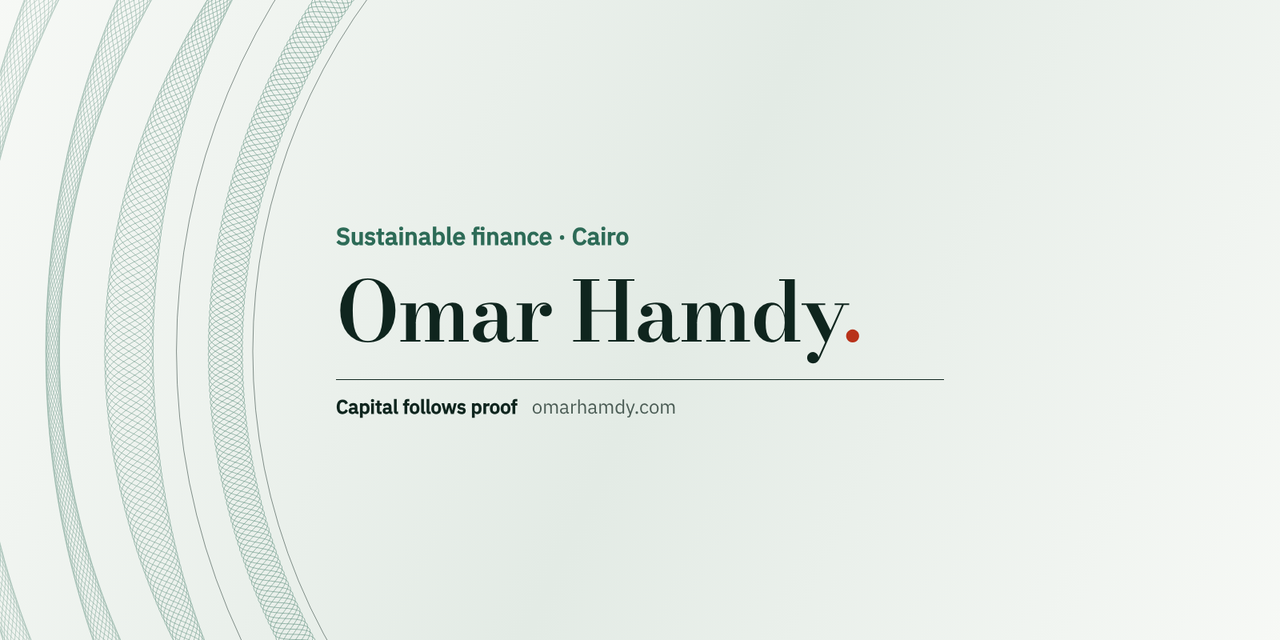
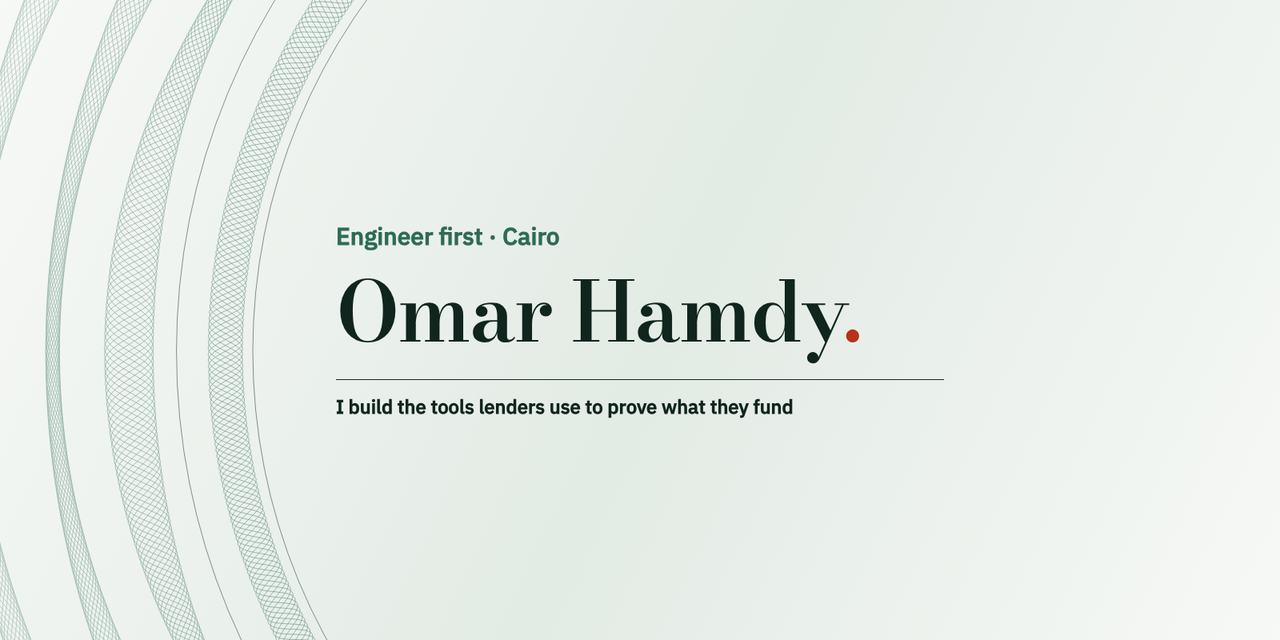
Profile: lead with the builder

Changed region(s): [[0.25, 0.3438, 0.5, 0.4062], [0.25, 0.625, 0.625, 0.6562]]

diff --git a/README.md b/README.md
@@ -1,24 +1,30 @@
-<p align="center"><img src="assets/banner.png" alt="Omar Hamdy. Sustainable finance, Cairo. Capital follows proof." width="100%"></p>
+<p align="center"><img src="assets/banner.png" alt="Omar Hamdy. Engineer first, Cairo. I build the tools lenders use to prove what they fund." width="100%"></p>
 
-Sustainable finance specialist in Cairo, on the lender's side of EBRD and IFC credit lines. IFC EDGE Expert. MSc Business Analytics.
+**Engineer first.** I trained in electronics and communications, ran network operations at Telecom Egypt, built a home automation product and worked as a Blockchain Research Analyst at Three Arrows Capital. Today I work on development bank credit lines in Cairo, on the lender's side, and I build the tools that job keeps asking for.
 
-I write [Condition Precedent](https://conditionprecedent.substack.com/?utm_source=github), a newsletter in English and Arabic on what a lender has to prove before green money moves. The tools below come from the same desk: if a check runs twice by hand, I build it once in code.
+If a check runs twice by hand, I build it once in code.
 
-### Open data and tools
+### Building now
 
 | | |
 |---|---|
-| [**cbam-egypt-data**](https://github.com/Omarhamdii87/cbam-egypt-data) | CBAM default values for Egypt on 260 CN lines, with 2025 EU imports and a tested certificate formula. CC BY 4.0, [DOI 10.5281/zenodo.23898572](https://doi.org/10.5281/zenodo.23898572) |
-| [**CBAM cost calculator**](https://omarhamdy.com/cbam-calculator/?src=github) | Certificates and cost for urea, ammonia, aluminium, cement and steel, on the EU default and on verified data |
-| [**CBAM readiness check**](https://omarhamdy.com/cbam-check/?src=github) | Five questions that show what an EU buyer will ask an exporter for. Runs in the browser |
-| [**Rules tracker**](https://omarhamdy.com/tracker/?src=github) | Sustainable finance rules for Egypt, six Gulf states and EU CBAM, each with its official source and a change log |
-| [**Toolkit**](https://omarhamdy.com/toolkit/?src=github) | Checklists and worksheets for lenders, built from public standards |
+| [**cbam-egypt-data**](https://github.com/Omarhamdii87/cbam-egypt-data) | CBAM default values for Egypt on 260 CN lines, with 2025 EU imports, plus the certificate formula as a small tested Python module. Data CC BY 4.0, code MIT, [DOI 10.5281/zenodo.23898572](https://doi.org/10.5281/zenodo.23898572) |
+| [**omarhamdy.com**](https://omarhamdy.com/?src=github) | A bilingual site I wrote from scratch: a Python generator with no runtime dependencies builds 380+ English and Arabic pages, draws its own social images, charts and A4 PDFs with Playwright, renders in CI on GitHub Actions and runs on Cloudflare Pages with an event counter that stores no identifier |
+| [**CBAM cost calculator**](https://omarhamdy.com/cbam-calculator/?src=github) | Certificates and cost on the EU default and on verified data. Runs in the browser, sends nothing |
+| [**CBAM readiness check**](https://omarhamdy.com/cbam-check/?src=github) | Five questions that show an exporter what the EU buyer will ask for |
+| [**Rules tracker**](https://omarhamdy.com/tracker/?src=github) | Sustainable finance rules for Egypt, six Gulf states and EU CBAM, each row with its official source, a change log and an RSS feed |
+| [**Condition Precedent**](https://conditionprecedent.substack.com/?utm_source=github) | My newsletter in English and [Arabic](https://alshart.substack.com/?utm_source=github). Issue headers, tables and charts are generated in code from one brand system |
 
-### Read
+### Before finance
 
-- [Condition Precedent](https://conditionprecedent.substack.com/?utm_source=github), English, every Tuesday
-- [الشرط المسبق](https://alshart.substack.com/?utm_source=github), Arabic, every other Tuesday
-- [Guides](https://omarhamdy.com/guides/?src=github) on CBAM, ESMS, PCAF, green buildings and IFRS S1 and S2
+- **Telecom Egypt, network operations.** 99.5 per cent uptime through 100+ daily checks; analysed 5,000+ logged faults and cut repeat incidents by about 30 per cent.
+- **Home automation.** Designed, built and deployed an IoT product.
+- **Three Arrows Capital.** Blockchain Research Analyst, 2020 to 2022.
+- **MSc Business Analytics**, Universiti Sains Malaysia. **BSc Electronics and Communications Engineering**, Misr International University.
+
+### Toolbox
+
+Python · JavaScript and Node · Playwright · SQL and data analysis · GitHub Actions · Cloudflare Pages and Functions · IoT hardware
 
 ### Find me
 
